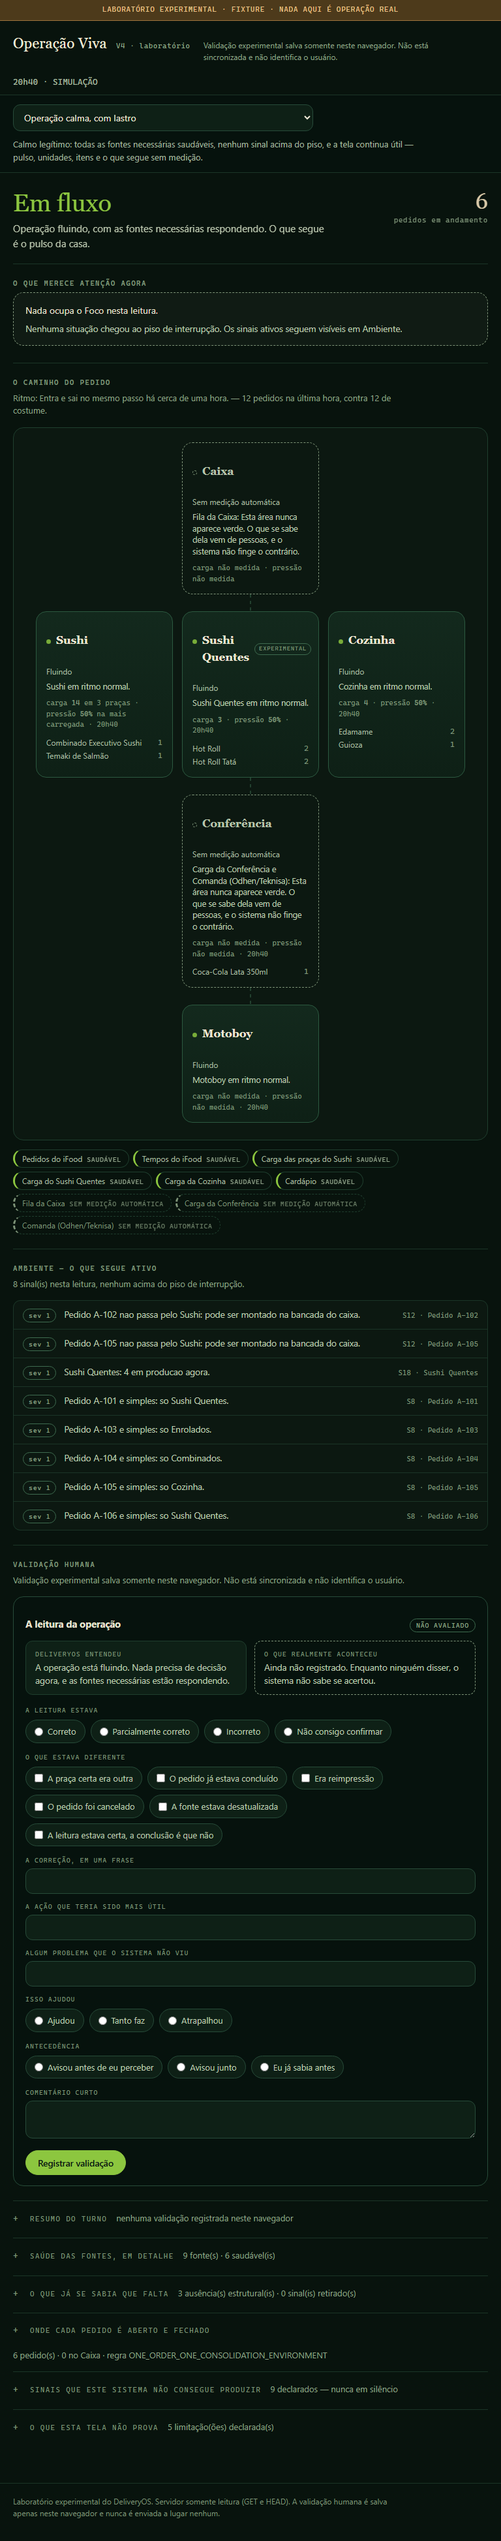
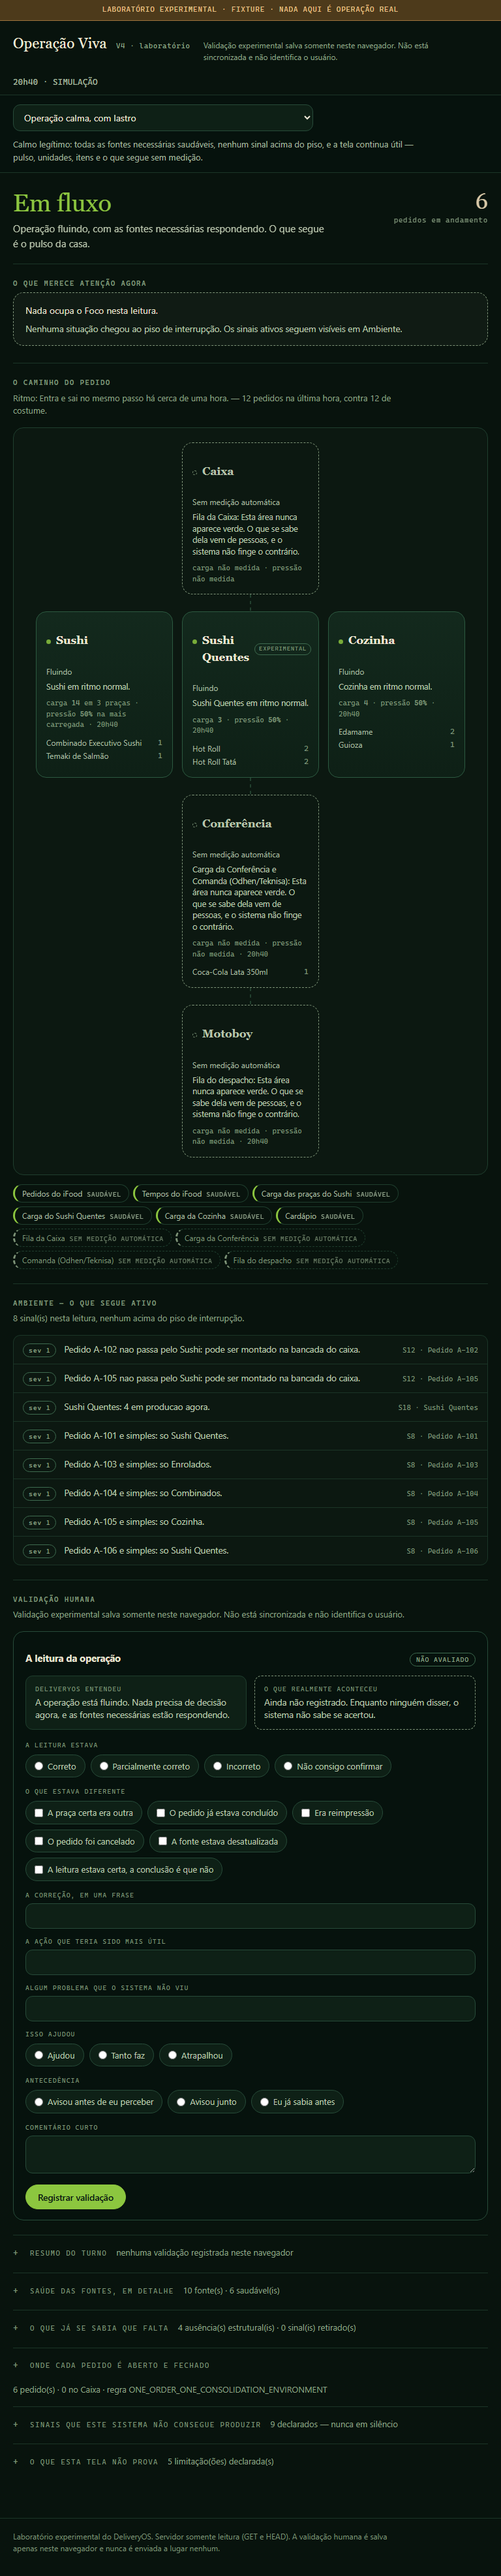
0-A: correcao do achado 5.1 — o Motoboy deixa de fingir calma
Correcao aplicada DEPOIS de o primeiro veredito estar registrado (cfa2fdb).

O defeito, na palavra do avaliador: o Motoboy pintava VERDE em 15 de 18 cenas
sem nenhuma medicao da fila de despacho, contradizendo o item 10 da
Constituicao e o comentario do proprio vm-v4.ts. Causa: Caixa e Conferencia
tinham fonte estrutural declarada e ele nao tinha. A unica fonte ligada eram os
Tempos do iFood, que medem ETAPA DE PEDIDO, nao fila de bancada.

A correcao declara a AUSENCIA, nao inventa a medicao. FONTE_MOTOBOY nasce
sem_medicao_automatica, no mesmo padrao de FONTE_CAIXA e FONTE_CONFERENCIA.
Contar fila de despacho a partir de tempo por pedido seria fabricar operacao —
mesma familia do defeito que D77 fechou para a carga. E o Cesar proibiu
explicitamente criar fonte ficticia para isso.

Medido: Motoboy verde em 0 de 18 cenas. Em foco-com-secundarios ele vai a
AMBAR, porque o S1 observou pedido pronto parado — sinal de pressao vence
ausencia de medicao, que e a ordem que ja valia para todas as unidades.

O agravante, que e meu: a guarda G7b tinha a isencao `|| u.id === "motoboy"`
escrita por mim. A guarda que existia para impedir verde-sem-medicao foi
ensinada a ignorar exatamente a unidade que violava a regra. A isencao caiu, e
a regra que fica esta escrita no proprio teste: excecao dentro de guarda e
confissao.

Tres guardas novas e uma mutacao nova. G7c passa a cobrir o Motoboy. G7d exige
que toda unidade sem medicao tenha fonte que DECLARE a ausencia — nao basta nao
[…]

diff --git a/labs/operacao-viva-v4/testes/run-lab-v4-tests.ts b/labs/operacao-viva-v4/testes/run-lab-v4-tests.ts
@@ -357,12 +357,25 @@ teste("G7 sem fonte de pedido, o pulso é AUSENTE e não `0`", () => {
   assert.match(v.pulso.observado ? "" : v.pulso.explicacao, /não é zero|nao e zero/i);
 });
 
-teste("G7b área sem medição nunca aparece verde", () => {
+/**
+ * ESTA GUARDA JÁ TEVE UMA ISENÇÃO, E ELA ERA O DEFEITO.
+ *
+ * A primeira versão dizia `u.pressao.observado || u.id === "motoboy"`. Ou seja:
+ * a guarda que existe para impedir "verde sem medição" foi ensinada a ignorar
+ * **justamente a unidade que violava a regra** — e ficou verde por isso, em 15
+ * das 18 cenas, até o avaliador independente encontrar pelo produto o que ela
+ * estava desculpando (achado 5.1).
+ *
+ * A regra que fica: exceção dentro de guarda é confissão. Se um caso não passa,
+ * ou o produto está errado, ou a regra está errada. Isentar não é nenhum dos
+ * dois — é apagar a pergunta.
+ */
+teste("G7b área sem medição nunca aparece verde — SEM exceção para ninguém", () => {
   for (const [id, v] of VMS) {
     for (const u of v.unidades) {
       if (u.cor !== "verde") continue;
       assert.ok(
-        u.pressao.observado || u.id === "motoboy",
+        u.pressao.observado,
         `${id}: ${u.id} está verde sem pressão observada`,
       );
       for (const f of u.fontes) {
@@ -375,12 +388,44 @@ teste("G7b área sem medição nunca aparece verde", () => {
   }
 });
 
-teste("G7c a Caixa e a Conferência nunca aparecem verdes em cena nenhuma", () => {
+teste("G7c Caixa, Conferência e Motoboy nunca aparecem verdes em cena nenhuma", () => {
+  // As três unidades sem medição automática de carga. O Motoboy entrou aqui
+  // depois do achado 5.1 — ele estava fora, e era exatamente o que faltava.
   for (const [id, v] of VMS) {
-    for (const alvo of ["caixa", "conferencia"] as const) {
+    for (const alvo of ["caixa", "conferencia", "motoboy"] as const) {
       const u = v.unidades.find((x) => x.id === alvo)!;
       assert.notEqual(u.cor, "verde", `${id}: ${alvo} apareceu verde`);
     }
+  }
+});
+
+teste("G7d toda unidade sem medição de carga tem fonte que DECLARA a ausência", () => {
+  // O par estrutural do 5.1: não basta o Motoboy não ficar verde por acidente
+  // de severidade. Ele precisa ter, como Caixa e Conferência, uma fonte que
+  // diga em voz alta que ninguém mede aquilo.
+  for (const [id, v] of VMS) {
+    for (const alvo of ["caixa", "conferencia", "motoboy"] as const) {
+      const u = v.unidades.find((x) => x.id === alvo)!;
+      assert.ok(
+        u.fontes.some((f) => f.estado.estado === "sem_medicao_automatica"),
+        `${id}: ${alvo} não tem fonte declarando ausência de medição`,
+      );
+    }
+  }
+});
+
+teste("G7e nenhuma cena lista a mesma fonte duas vezes", () => {
+  // Nasceu de um erro meu ao inserir a fonte do despacho em massa: o padrão
+  // curto era SUBSTRING do indentado, e quatro cenas ficaram com a fonte
+  // repetida. O sintoma na tela era discreto — "Fila do despacho e Fila do
+  // despacho" no motivo — e nenhuma guarda existente pegava.
+  for (const [id, v] of VMS) {
+    const ids = v.fontes.map((f) => f.id);
+    assert.equal(
+      new Set(ids).size,
+      ids.length,
+      `${id}: fonte repetida na leitura — ${ids.join(", ")}`,
+    );
   }
 });
 
@@ -838,6 +883,21 @@ const MUTACOES: readonly Mutacao[] = [
     para: `      ? (canonica.foco !== null ? canonica.foco.sinal : null)
       : null;`,
     acusa: "G3",
+  },
+  {
+    /**
+     * A mutação que teria pego o achado 5.1 antes do avaliador. Ela remove a
+     * fonte que declara a ausência de medição do despacho — e o Motoboy volta a
+     * pintar verde sem nada por trás, exatamente como estava.
+     */
+    id: "MD9 o Motoboy perde a fonte que declara a ausência de medição",
+    arquivo: "fixtures/cenarios.ts",
+    de: `  FONTE_COMANDA,
+  FONTE_MOTOBOY,
+];`,
+    para: `  FONTE_COMANDA,
+];`,
+    acusa: "G7",
   },
   {
     id: "MD7 a importação deixa de procurar PII",

diff --git a/labs/operacao-viva-v4/fixtures/base.ts b/labs/operacao-viva-v4/fixtures/base.ts
@@ -167,6 +167,36 @@ export const FONTE_COMANDA = fonte(
   null,
 );
 
+/**
+ * A QUARTA ausência estrutural, e ela entrou por um defeito encontrado pelo
+ * avaliador independente (achado 5.1, `APPROVED_WITH_RESERVATIONS`).
+ *
+ * O Motoboy pintava **verde** em 15 das 18 cenas, sem nenhuma medição da fila
+ * de despacho — contradizendo o item 10 da Constituição e o comentário do
+ * próprio `vm-v4.ts`. A causa: Caixa e Conferência tinham fonte estrutural
+ * declarada e o Motoboy não tinha. A única fonte ligada a ele eram os Tempos do
+ * iFood, que medem **etapa de pedido** (recebido, pronto, saiu), e não a fila da
+ * bancada de despacho. Como essa fonte está saudável na maioria das cenas, o
+ * verde passava trivialmente.
+ *
+ * A correção é declarar a AUSÊNCIA, não inventar a medição. Contar fila de
+ * despacho a partir de tempo por pedido seria fabricar operação — a mesma
+ * família do defeito que D77 fechou para a carga.
+ *
+ * O que NÃO muda: S1, S2 e S3 continuam pintando o Motoboy quando observam
+ * pedido pronto parado. Sinal de pressão vence ausência de medição — é a ordem
+ * que já valia para todas as unidades.
+ */
+export const FONTE_MOTOBOY = fonte(
+  "fila_despacho",
+  "Fila do despacho",
+  "sem_medicao_automatica",
+  "Nenhuma fonte conta quantos pedidos esperam motoboy. Os tempos do iFood medem etapa de pedido, não a fila da bancada.",
+  ["motoboy"],
+  false,
+  null,
+);
+
 export const FONTE_CARDAPIO = fonte(
   "cardapio_seed",
   "Cardápio",
@@ -200,6 +230,15 @@ export const AUSENCIAS_ESTRUTURAIS: readonly AusenciaMaterial[] = [
       "Observação e alergia do cliente não chegam. Ausência aqui não significa que não existem.",
     natureza: "estrutural",
     unidades: ["conferencia"],
+  },
+  {
+    o_que: "A fila do despacho não é contada",
+    por_que:
+      "Os tempos do iFood medem etapa de pedido — recebido, pronto, saiu. Nenhuma fonte conta quantos pedidos esperam motoboy na bancada.",
+    consequencia:
+      "O Motoboy nunca aparece verde. Um pedido pronto e parado ainda vira sinal; o tamanho da fila, não.",
+    natureza: "estrutural",
+    unidades: ["motoboy"],
   },
 ];
 

diff --git a/labs/operacao-viva-v4/testes/run-lab-v4-browser.ts b/labs/operacao-viva-v4/testes/run-lab-v4-browser.ts
@@ -30,8 +30,28 @@ import { IDS_DAS_CENAS } from "../fixtures/cenarios";
 import { acharPII } from "../validacao/schema.js";
 
 const raiz = process.cwd();
-const EVID = join(raiz, "labs", "operacao-viva-v4", "evidencias");
-const PORTA = 5292;
+
+/**
+ * Onde as capturas e os arquivos temporários do gate são gravados.
+ *
+ * Por padrão, o diretório versionado de evidências. Mas `LAB_V4_EVIDENCIAS`
+ * redireciona tudo para fora da worktree — e isso existe por causa de um desvio
+ * real: numa avaliação declarada **read-only**, o avaliador rodou este gate (com
+ * autorização do construtor) e ele apagou e recriou o diretório versionado,
+ * modificando quatro PNGs rastreados.
+ *
+ * A falha foi de método, não do avaliador: autorizar um comando com efeito de
+ * escrita numa sessão read-only. Daqui em diante, avaliação independente roda
+ * com:
+ *
+ *   LAB_V4_EVIDENCIAS=<caminho fora da worktree> npm run test:lab:v4:browser
+ *
+ * e a leitura passa a ser efetivamente read-only sobre arquivos versionados.
+ */
+const EVID =
+  process.env.LAB_V4_EVIDENCIAS ??
+  join(raiz, "labs", "operacao-viva-v4", "evidencias");
+const PORTA = Number(process.env.LAB_V4_PORTA_TESTE ?? 5292);
 const URLBASE = `http://127.0.0.1:${PORTA}${BASE}/`;
 
 const VIEWPORTS = [

diff --git a/labs/operacao-viva-v4/fixtures/cenarios.ts b/labs/operacao-viva-v4/fixtures/cenarios.ts
@@ -28,6 +28,7 @@ import {
   FONTE_CARDAPIO,
   FONTE_COMANDA,
   FONTE_CONFERENCIA,
+  FONTE_MOTOBOY,
   fonte,
   item,
   pedido,
@@ -111,6 +112,7 @@ const SAUDAVEIS = (): FonteV4[] => [
   FONTE_CAIXA,
   FONTE_CONFERENCIA,
   FONTE_COMANDA,
+  FONTE_MOTOBOY,
 ];
 
 /* ================================================================== *
@@ -196,6 +198,7 @@ const ausenciaDeDados = (): LeituraV4 =>
       FONTE_CAIXA,
       FONTE_CONFERENCIA,
       FONTE_COMANDA,
+      FONTE_MOTOBOY,
     ],
     ritmo: RITMO_NAO_OBSERVADO,
     ausencias: [
@@ -247,6 +250,7 @@ const fonteAtrasada = (): LeituraV4 =>
       FONTE_CAIXA,
       FONTE_CONFERENCIA,
       FONTE_COMANDA,
+      FONTE_MOTOBOY,
     ],
     ritmo: RITMO_ESTAVEL,
     ausencias: [
@@ -308,6 +312,7 @@ const fonteIndisponivel = (): LeituraV4 =>
       FONTE_CAIXA,
       FONTE_CONFERENCIA,
       FONTE_COMANDA,
+      FONTE_MOTOBOY,
     ],
     ritmo: RITMO_ESTAVEL,
     ausencias: [
@@ -367,6 +372,7 @@ const fonteDivergente = (): LeituraV4 =>
       FONTE_CAIXA,
       FONTE_CONFERENCIA,
       FONTE_COMANDA,
+      FONTE_MOTOBOY,
     ],
     ritmo: RITMO_ESTAVEL,
     divergencias: [
